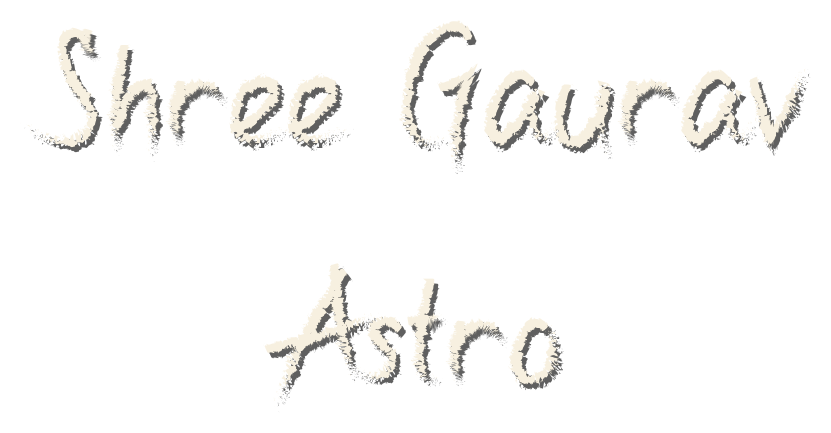
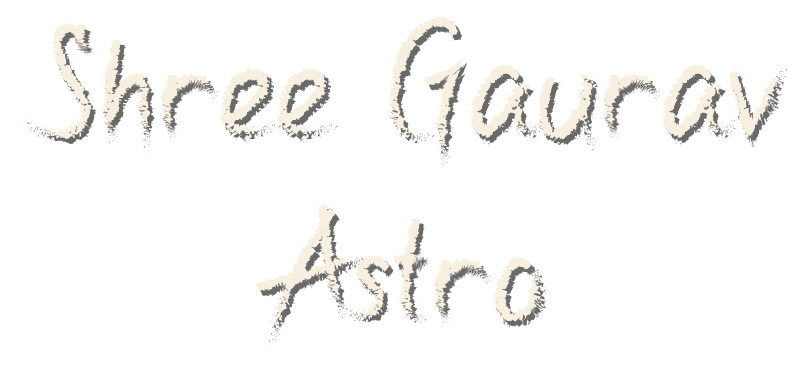
IPS: Keynote-style crossfade (bg establishes first on dark backdrop, no white flash), glass sweep, one overlapping content timeline, pinned one-way; tighter signature PNG

Changed region(s): [[0.4664, 0.0603, 0.995, 0.4219], [0.0311, 0.0603, 0.4353, 0.3918], [0.3109, 0.5726, 0.6841, 0.9041]]

diff --git a/animations/ipsCinematic.ts b/animations/ipsCinematic.ts
@@ -3,25 +3,22 @@ import { ScrollTrigger } from "gsap/ScrollTrigger";
 import SplitType from "split-type";
 
 /**
- * IPS — one pinned, scroll-scrubbed cinematic timeline.
+ * IPS — one pinned, scroll-driven cinematic timeline (Keynote-style).
  *
- * The whole point: the BACKGROUND is the focus first and fully establishes
- * before anything else moves. Only then does the cascade begin — nothing
- * appears before the background is set. Beats overlap slightly within the
- * cascade so it reads as ONE continuous move, never independent elements.
+ * The section is PINNED and the whole sequence plays as ONE continuous GSAP
+ * timeline with overlapping beats — never independent fade-ins, never a blank /
+ * white frame (the section sits on a dark backdrop so the fade reads as a
+ * crossfade from the previous section).
  *
- * Order (matches the reference exactly):
- *   1. crossfade in → the IPS background (dissolve, not a cut)
- *   2. background fully establishes (fade + zoom-out 1.08→1.0) — alone
- *   3. diagonal white glass divider sweeps into position
- *   4. IPS title block reveals (top-left): kicker → "IPS" → subtitle → underline
- *   5. dark glass panel slides in from the left while fading in
- *   6. astrologer stays established (it lives in the background — no separate move)
- *   7. panel text reveals with staggered timing
- *   8. CTA reveals last
- *   9. hold the finished composition, then release the pin
+ * Sequence:
+ *   1. crossfade → the IPS background fades up + zooms out and ESTABLISHES first
+ *   2. the diagonal glass overlay sweeps into place
+ *   3. the content unit reveals as one move — title, subtitle + growing
+ *      underline, the dark panel sliding in from the left, its lines, then the
+ *      CTA — each beat overlapping the previous so it feels like one animation.
  *
- * Power-curve easing only — slow, luxurious, no bounce / spring / abruptness.
+ * Driven ONE-WAY by scroll: advances with forward scroll, never rewinds on
+ * scroll-up, and stays complete once finished.
  */
 export function buildIpsCinematic(scope: HTMLElement, stageEl: HTMLElement) {
   const q = gsap.utils.selector(scope);
@@ -30,56 +27,52 @@ export function buildIpsCinematic(scope: HTMLElement, stageEl: HTMLElement) {
   const split = new SplitType(paras, { types: "lines", lineClass: "ips-line" });
   const lines = split.lines ?? [];
 
-  // frame + background are visible immediately (NO blank/white frame ever);
-  // only a subtle zoom-out plays as the section settles.
-  gsap.set(q(".ips-frame"), { opacity: 1 });
-  gsap.set(q(".ips-bg"), { opacity: 1, scale: 1.08 });
-  gsap.set(q(".ips-glass"), { opacity: 0, xPercent: -75 });
-  gsap.set(q(".ips-title"), { opacity: 0, y: 26 });
-  gsap.set(q(".ips-subtitle"), { opacity: 0, y: 22 });
+  // initial states — background hidden (dark backdrop behind → no white flash)
+  gsap.set(q(".ips-bg"), { opacity: 0, scale: 1.1 });
+  gsap.set(q(".ips-wash"), { opacity: 0 });
+  gsap.set(q(".ips-glass"), { opacity: 0, xPercent: -80 });
+  gsap.set(q(".ips-title"), { opacity: 0, y: 30 });
+  gsap.set(q(".ips-subtitle"), { opacity: 0, y: 24 });
   gsap.set(q(".ips-underline"), { scaleX: 0, transformOrigin: "left center" });
   gsap.set(q(".ips-panel"), { opacity: 0, x: -90 });
-  gsap.set(lines, { opacity: 0, y: 16 });
+  gsap.set(lines, { opacity: 0, y: 18 });
   gsap.set(q(".ips-cta"), { opacity: 0, scale: 0.9 });
 
-  const tl = gsap.timeline({
-    defaults: { ease: "power3.out" },
-    scrollTrigger: {
-      trigger: stageEl,
-      start: "top top",
-      end: "+=140%",
-      pin: true,
-      pinSpacing: true,
-      // play the sequence ONCE on enter; never reverse when scrolling back
-      toggleActions: "play none none none",
-      anticipatePin: 1,
-      invalidateOnRefresh: true,
-    },
-  });
+  // paused master timeline — one continuous, overlapping sequence
+  const tl = gsap.timeline({ paused: true, defaults: { ease: "power3.out" } });
 
   tl
-    // ── 1 + 2 · BACKGROUND SETTLES ALONE (visible from the start — no blank) ──
-    .to(q(".ips-bg"), { scale: 1, duration: 1.5, ease: "power2.out" }, 0.0)
+    // 1 · background crossfades up + zooms out, and establishes ALONE first
+    .to(q(".ips-bg"), { opacity: 1, scale: 1, duration: 1.6, ease: "power2.out" }, 0.0)
+    .to(q(".ips-wash"), { opacity: 1, duration: 1.4, ease: "power2.out" }, 0.2)
+    // 2 · diagonal glass overlay sweeps into place (as the bg finishes settling)
+    .to(q(".ips-glass"), { opacity: 1, xPercent: 0, duration: 1.1, ease: "power2.inOut" }, 1.45)
+    // 3 · content unit — one overlapping cascade
+    .to(q(".ips-title"), { opacity: 1, y: 0, duration: 0.9 }, 1.95)
+    .to(q(".ips-subtitle"), { opacity: 1, y: 0, duration: 0.75 }, 2.2)
+    .to(q(".ips-underline"), { scaleX: 1, duration: 0.8, ease: "power2.inOut" }, 2.35)
+    .to(q(".ips-panel"), { opacity: 1, x: 0, duration: 1.0 }, 2.45) // overlaps the title cascade
+    .to(lines, { opacity: 1, y: 0, duration: 0.7, stagger: 0.14 }, 2.85)
+    .to(q(".ips-cta"), { opacity: 1, scale: 1, duration: 0.8 }, 3.35)
+    .to({}, { duration: 0.5 }, 3.8); // hold before releasing
 
-    // ── 3 · diagonal white glass divider sweeps into position (after bg is set) ──
-    .to(q(".ips-glass"), { opacity: 1, xPercent: 0, duration: 1.1, ease: "power2.inOut" }, 1.55)
-
-    // ── 4 · IPS title block reveals, top-left (IPS → subtitle → underline) ──
-    .to(q(".ips-title"), { opacity: 1, y: 0, duration: 0.9, ease: "power3.out" }, 2.05)
-    .to(q(".ips-subtitle"), { opacity: 1, y: 0, duration: 0.75 }, 2.55)
-    .to(q(".ips-underline"), { scaleX: 1, duration: 0.75, ease: "power2.inOut" }, 2.75)
-
-    // ── 5 · dark glass panel slides in from the left + fades (after the title) ──
-    .to(q(".ips-panel"), { opacity: 1, x: 0, duration: 1.0, ease: "power3.out" }, 2.95)
-
-    // ── 7 · panel text reveals line-by-line (after the panel has arrived) ──
-    .to(lines, { opacity: 1, y: 0, duration: 0.7, stagger: 0.14 }, 3.5)
-
-    // ── 8 · CTA reveals last with a subtle scale ──
-    .to(q(".ips-cta"), { opacity: 1, scale: 1, duration: 0.8 }, 4.15)
-
-    // ── 9 · hold the finished composition before releasing the pin ──
-    .to({}, { duration: 0.7 }, 4.7);
+  // ONE-WAY scroll driver: pin, advance forward only, never reverse
+  let maxProgress = 0;
+  ScrollTrigger.create({
+    trigger: stageEl,
+    start: "top top",
+    end: "+=220%",
+    pin: true,
+    pinSpacing: true,
+    anticipatePin: 1,
+    invalidateOnRefresh: true,
+    onUpdate: (self) => {
+      if (self.progress > maxProgress) {
+        maxProgress = self.progress;
+        tl.progress(maxProgress);
+      }
+    },
+  });
 
   return tl;
 }

diff --git a/components/sections/IPSSection.tsx b/components/sections/IPSSection.tsx
@@ -8,13 +8,13 @@
  */
 export default function IPSSection() {
   return (
-    <section className="ips-stage relative flex h-screen w-full items-center justify-center overflow-hidden bg-cream px-4 py-6 lg:px-8">
-      <div className="ips-frame relative h-[74vh] w-full max-w-[1560px] overflow-hidden rounded-[34px] border border-gold/20 shadow-[0_30px_90px_-45px_rgba(120,90,30,0.55)]">
-        {/* background layer (subtle zoom-out) — cropped slightly below the last button */}
+    <section className="ips-stage relative flex h-screen w-full items-center justify-center overflow-hidden bg-[#0d0a06] px-4 py-6 lg:px-8">
+      <div className="ips-frame relative h-[74vh] w-full max-w-[1560px] overflow-hidden rounded-[34px] border border-gold/20 bg-[#120c04] shadow-[0_30px_90px_-45px_rgba(120,90,30,0.55)]">
+        {/* background layer (fades in + subtle zoom-out) — dark fallback so there is never a white flash */}
         <div
           className="ips-bg absolute inset-0 will-change-transform"
           style={{
-            backgroundColor: "#efe7d8",
+            backgroundColor: "#120c04",
             backgroundImage: "url('/images/ips-bg.png')",
             backgroundSize: "cover",
             backgroundPosition: "center 28%",
@@ -32,8 +32,8 @@ export default function IPSSection() {
           }}
         />
 
-        {/* left light wash for legibility */}
-        <div className="pointer-events-none absolute inset-0 bg-gradient-to-r from-[#f3ecdd]/85 via-[#f3ecdd]/25 to-transparent" />
+        {/* left light wash for legibility (fades in with the background) */}
+        <div className="ips-wash pointer-events-none absolute inset-0 bg-gradient-to-r from-[#f3ecdd]/85 via-[#f3ecdd]/25 to-transparent" />
 
         {/* content */}
         <div className="absolute inset-0 z-10 flex w-full flex-col justify-center px-6 py-8 sm:px-12 lg:w-[58%] lg:py-10">

diff --git a/components/Hero.tsx b/components/Hero.tsx
@@ -74,8 +74,8 @@ export default function Hero() {
           <Image
             src="/images/signature.png"
             alt="Shree Gaurav Astro"
-            width={831}
-            height={433}
+            width={804}
+            height={365}
             priority
             className="h-auto w-full drop-shadow-[0_2px_12px_rgba(0,0,0,0.6)]"
           />
